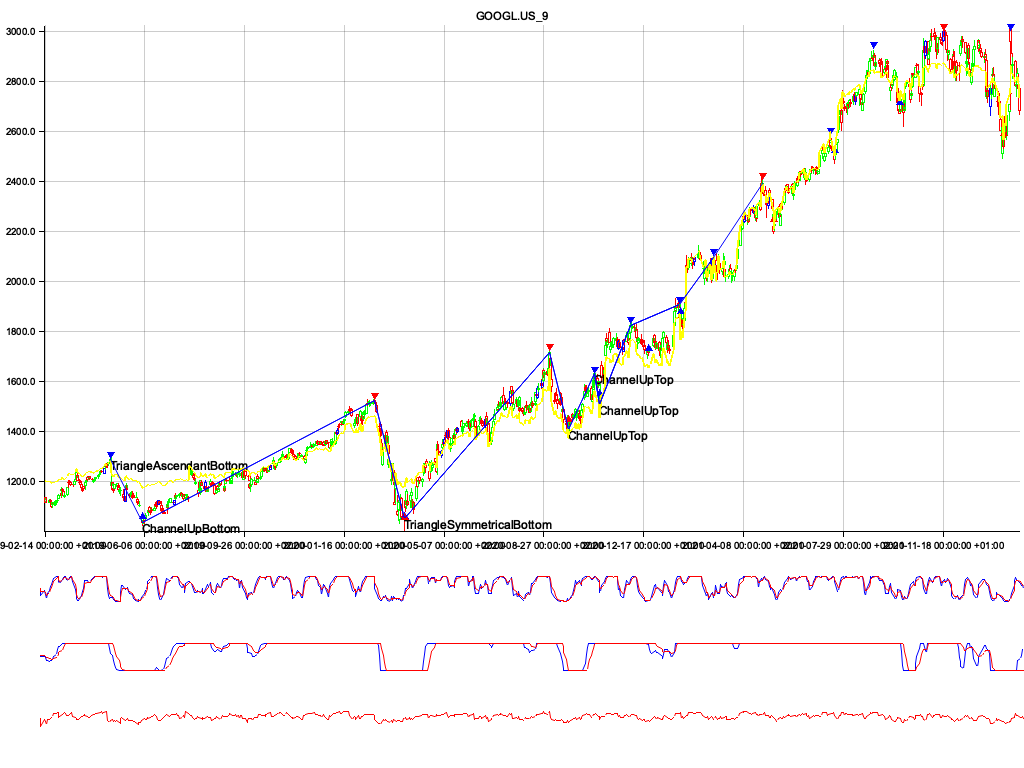
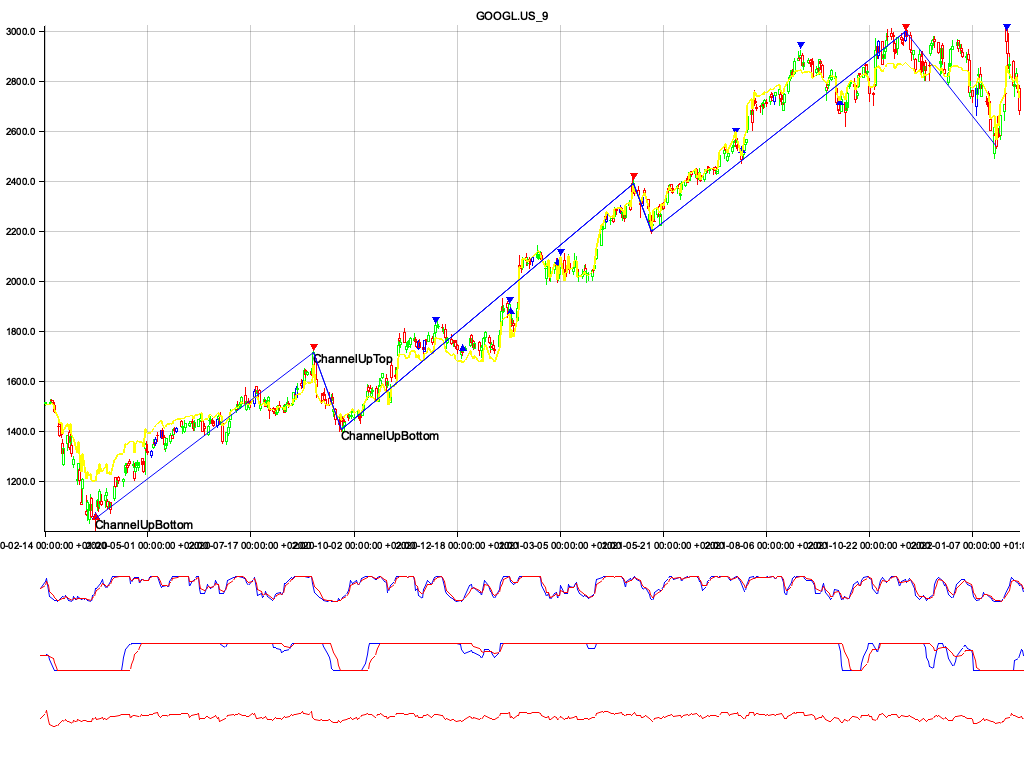
feat: calculate patterns for both extrema and local maxima / minima

diff --git a/src/patterns/pattern.rs b/src/patterns/pattern.rs
@@ -26,28 +26,40 @@ pub enum PatternType {
 }
 
 #[derive(Debug, Clone)]
+pub enum PatternSize {
+    Local,
+    Extrema,
+}
+
+#[derive(Debug, Clone)]
 pub struct Pattern {
     pub pattern_type: PatternType,
+    pub pattern_size: PatternSize,
     pub data_points: DataPoints,
 }
 
 #[derive(Debug, Clone)]
 pub struct Patterns {
-    pub patterns: Vec<Pattern>,
+    pub local_patterns: Vec<Pattern>,
+    pub extrema_patterns: Vec<Pattern>,
 }
 
 impl Patterns {
     pub fn new() -> Self {
-        Patterns { patterns: vec![] }
+        Patterns {
+            local_patterns: vec![],
+            extrema_patterns: vec![],
+        }
     }
 
     pub fn detect_pattern(
         &mut self,
+        pattern_size: PatternSize,
         maxima: &Vec<(usize, f64)>,
         minima: &Vec<(usize, f64)>,
         current_price: &f64,
     ) {
-        let max_points = env::var("PATTERNS_MAX_POINTS")
+        let local_max_points = env::var("PATTERNS_MAX_POINTS")
             .unwrap()
             .parse::<usize>()
             .unwrap();
@@ -56,40 +68,36 @@ impl Patterns {
             .unwrap()
             .parse::<usize>()
             .unwrap();
+
         let window_size = env::var("PATTERNS_WINDOW_SIZE")
             .unwrap()
             .parse::<usize>()
             .unwrap();
 
-        let mut start = 0;
-        let mut max = 0;
-        let mut min = 0;
+        let mut max_start = 0;
+        let mut max_end = 0;
+        let mut min_start = 0;
+        let mut min_end = 0;
         let maxima_length = maxima.len();
         let minima_length = minima.len();
-
         if maxima_length >= min_points && minima_length >= min_points {
-            if maxima_length > max_points {
-                max = max_points
+            if maxima_length > local_max_points {
+                max_start = maxima_length - local_max_points;
+                max_end = maxima_length;
             } else {
-                max = maxima_length
+                max_start = 0;
+                max_end = maxima_length;
             }
 
-            if minima_length > min_points {
-                min = min_points
+            if minima_length > local_max_points {
+                min_start = minima_length - local_max_points;
+                min_end = minima_length;
             } else {
-                min = minima_length
+                min_start = 0;
+                min_end = minima_length;
             }
 
-            // if maxima_length < max_points {
-            //     start = maxima_length
-            // } else {
-            //     start = maxima_length - max_points;
-            // }
-            // CONTINUE HERE SHOULD START max points from the end
-            //println!("444444 {:?}", [&maxima[start..max]].concat());
-            //let mut locals = [maxima.clone(), minima.clone()].concat();
-            // let mut locals = [maxima.clone(), minima.clone()].concat();
-            let mut locals = [&maxima[0..max], &minima[0..min]].concat();
+            let mut locals = [&maxima[max_start..max_end], &minima[min_start..min_end]].concat();
 
             locals.sort_by(|(id_a, _price_a), (id_b, _price_b)| id_a.cmp(id_b));
             locals.reverse();
@@ -100,71 +108,144 @@ impl Patterns {
                     Some(window) => {
                         let data_points = window.to_vec();
                         if triangle::is_ascendant_top(&data_points, current_price) {
-                            self.set_pattern(&data_points, PatternType::TriangleAscendantTop);
+                            self.set_pattern(
+                                &data_points,
+                                &pattern_size,
+                                PatternType::TriangleAscendantTop,
+                            );
                             //no_pattern = false;
                         } else if triangle::is_ascendant_bottom(&data_points, current_price) {
-                            self.set_pattern(&data_points, PatternType::TriangleAscendantBottom);
+                            self.set_pattern(
+                                &data_points,
+                                &pattern_size,
+                                PatternType::TriangleAscendantBottom,
+                            );
                             //no_pattern = false;
                         } else if triangle::is_descendant_top(&data_points, current_price) {
-                            self.set_pattern(&data_points, PatternType::TriangleDescendantTop);
+                            self.set_pattern(
+                                &data_points,
+                                &pattern_size,
+                                PatternType::TriangleDescendantTop,
+                            );
                             // no_pattern = false;
                         } else if triangle::is_descendant_bottom(&data_points, current_price) {
-                            self.set_pattern(&data_points, PatternType::TriangleDescendantBottom);
+                            self.set_pattern(
+                                &data_points,
+                                &pattern_size,
+                                PatternType::TriangleDescendantBottom,
+                            );
                             // no_pattern = false;
                         } else if triangle::is_symmetrical_top(&data_points, current_price) {
-                            self.set_pattern(&data_points, PatternType::TriangleSymmetricalTop);
+                            self.set_pattern(
+                                &data_points,
+                                &pattern_size,
+                                PatternType::TriangleSymmetricalTop,
+                            );
                             // no_pattern = false;
                         } else if triangle::is_symmetrical_bottom(&data_points, current_price) {
-                            self.set_pattern(&data_points, PatternType::TriangleSymmetricalBottom);
+                            self.set_pattern(
+                                &data_points,
+                                &pattern_size,
+                                PatternType::TriangleSymmetricalBottom,
+                            );
                             // no_pattern = false;
                         } else if rectangle::is_renctangle_top(&data_points, current_price) {
-                            self.set_pattern(&data_points, PatternType::RectangleTop);
+                            self.set_pattern(
+                                &data_points,
+                                &pattern_size,
+                                PatternType::RectangleTop,
+                            );
                             // no_pattern = false;
                         } else if rectangle::is_renctangle_bottom(&data_points, current_price) {
-                            self.set_pattern(&data_points, PatternType::RectangleBottom);
+                            self.set_pattern(
+                                &data_points,
+                                &pattern_size,
+                                PatternType::RectangleBottom,
+                            );
                             //  no_pattern = false;
                         } else if channel::is_ascendant_top(&data_points, current_price) {
-                            self.set_pattern(&data_points, PatternType::ChannelUpTop);
+                            self.set_pattern(
+                                &data_points,
+                                &pattern_size,
+                                PatternType::ChannelUpTop,
+                            );
                             //no_pattern = false;
                         } else if channel::is_ascendant_bottom(&data_points, current_price) {
-                            self.set_pattern(&data_points, PatternType::ChannelUpBottom);
+                            self.set_pattern(
+                                &data_points,
+                                &pattern_size,
+                                PatternType::ChannelUpBottom,
+                            );
                             // no_pattern = false;
                         } else if channel::is_descendant_top(&data_points, current_price) {
-                            self.set_pattern(&data_points, PatternType::ChannelDownTop);
+                            self.set_pattern(
+                                &data_points,
+                                &pattern_size,
+                                PatternType::ChannelDownTop,
+                            );
                             //  no_pattern = false;
                         } else if channel::is_descendant_bottom(&data_points, current_price) {
-                            self.set_pattern(&data_points, PatternType::ChannelDownBottom);
+                            self.set_pattern(
+                                &data_points,
+                                &pattern_size,
+                                PatternType::ChannelDownBottom,
+                            );
                             // no_pattern = false;
                         } else if broadening::is_top(&data_points, current_price) {
-                            self.set_pattern(&data_points, PatternType::BroadeningTop);
+                            self.set_pattern(
+                                &data_points,
+                                &pattern_size,
+                                PatternType::BroadeningTop,
+                            );
                             // no_pattern = false;
                         } else if broadening::is_bottom(&data_points, current_price) {
-                            self.set_pattern(&data_points, PatternType::BroadeningBottom);
+                            self.set_pattern(
+                                &data_points,
+                                &pattern_size,
+                                PatternType::BroadeningBottom,
+                            );
                             // no_pattern = false;
                         } else if double::is_top(&data_points, current_price) {
-                            self.set_pattern(&data_points, PatternType::DoubleTop);
+                            self.set_pattern(&data_points, &pattern_size, PatternType::DoubleTop);
                             // no_pattern = false;
                         } else if double::is_bottom(&data_points, current_price) {
-                            self.set_pattern(&data_points, PatternType::DoubleBottom);
+                            self.set_pattern(
+                                &data_points,
+                                &pattern_size,
+                                PatternType::DoubleBottom,
+                            );
                             // no_pattern = false;
                         }
                     }
                     None => {
-                        self.set_pattern(&vec![(0, 0.)], PatternType::None);
+                        self.set_pattern(&vec![(0, 0.)], &pattern_size, PatternType::None);
                         no_pattern = false;
                     }
                 }
             }
         } else {
-            self.set_pattern(&vec![(0, 0.)], PatternType::None);
+            self.set_pattern(&vec![(0, 0.)], &pattern_size, PatternType::None);
         }
     }
 
-    fn set_pattern(&mut self, data_points: &DataPoints, pattern_type: PatternType) {
-        self.patterns.push(Pattern {
-            pattern_type,
-            data_points: data_points.to_owned(),
-        });
+    fn set_pattern(
+        &mut self,
+        data_points: &DataPoints,
+        pattern_size: &PatternSize,
+        pattern_type: PatternType,
+    ) {
+        match &pattern_size {
+            PatternSize::Local => self.local_patterns.push(Pattern {
+                pattern_type,
+                pattern_size: pattern_size.clone(),
+                data_points: data_points.to_owned(),
+            }),
+            PatternSize::Extrema => self.extrema_patterns.push(Pattern {
+                pattern_type,
+                pattern_size: pattern_size.clone(),
+                data_points: data_points.to_owned(),
+            }),
+        };
     }
 
     // pub fn is_head_and_shoulders(

diff --git a/src/main.rs b/src/main.rs
@@ -42,7 +42,7 @@ async fn main() -> Result<()> {
     let sleep_time = &env::var("SLEEP_TIME").unwrap().parse::<u64>().unwrap();
 
     let sleep = time::Duration::from_millis(*sleep_time);
-    let from = (Local::now() - date::Duration::days(365 * 3)).timestamp();
+    let from = (Local::now() - date::Duration::days(365 * 2)).timestamp();
     let time_frame = TimeFrame::D;
 
     let mut screener = Screener::<Xtb>::new().await?;
@@ -84,15 +84,18 @@ async fn main() -> Result<()> {
                 from,
                 |inst: Instrument| async move {
                     println!(
-                        "[INSTRUMENT] {:?} {:?} {:?} {:?}",
+                        "[INSTRUMENT] {:?} [CANDLE] {:?} [PATTERNS] {:?} [INDICATORS] {:?}",
                         inst.symbol(),
                         inst.current_candle().candle_type(),
-                        inst.patterns().patterns[0].pattern_type,
-                        (
+                        [
+                            inst.patterns().extrema_patterns[0].pattern_type.clone(),
+                            inst.patterns().local_patterns[0].pattern_type.clone(),
+                        ],
+                        [
                             inst.indicators().macd().get_status(),
                             inst.indicators().rsi().get_status(),
                             inst.indicators().stoch().get_status()
-                        )
+                        ]
                     );
                     Ok(())
                 },

diff --git a/src/instrument.rs b/src/instrument.rs
@@ -4,7 +4,7 @@ use crate::helpers::date::{DateTime, Local};
 use crate::indicators::macd::Macd;
 use crate::indicators::{Indicator, Indicators};
 use crate::patterns::horizontal_levels::HorizontalLevels;
-use crate::patterns::pattern::Patterns;
+use crate::patterns::pattern::{PatternSize, Patterns};
 use crate::patterns::peaks::Peaks;
 
 use std::env;
@@ -125,11 +125,25 @@ impl Instrument {
         self.set_current_price(parsed[0].close());
         self.peaks.calculate_peaks(&self.max_price).unwrap();
 
-        let maxima = self.peaks.local_maxima();
-        let minima = self.peaks.local_minima();
+        let local_maxima = self.peaks.local_maxima();
+        let local_minima = self.peaks.local_minima();
 
-        self.patterns
-            .detect_pattern(maxima, minima, &self.current_price);
+        let extrema_maxima = self.peaks.extrema_maxima();
+        let extrema_minima = self.peaks.extrema_minima();
+
+        self.patterns.detect_pattern(
+            PatternSize::Local,
+            local_maxima,
+            local_minima,
+            &self.current_price,
+        );
+
+        self.patterns.detect_pattern(
+            PatternSize::Extrema,
+            extrema_maxima,
+            extrema_minima,
+            &self.current_price,
+        );
 
         self.horizontal_levels
             .calculate_horizontal_highs(&self.current_price, &self.peaks)

diff --git a/src/backend.rs b/src/backend.rs
@@ -36,7 +36,7 @@ impl Backend {
         let extrema_maxima = instrument.peaks().extrema_maxima();
         let extrema_minima = instrument.peaks().extrema_minima();
         let horizontal_levels = instrument.horizontal_levels().horizontal_levels();
-        let patterns = instrument.patterns();
+        let patterns = instrument.patterns().extrema_patterns.clone();
         //let upper_channel = instrument.patterns().upper_channel();
 
         let rsi = instrument.indicators().rsi();
@@ -98,7 +98,7 @@ impl Backend {
             }))
             .unwrap();
 
-        for (x, pattern) in patterns.patterns.iter().enumerate() {
+        for (x, pattern) in patterns.iter().enumerate() {
             chart
                 .draw_series(PointSeries::of_element(
                     (0..).zip(pattern.data_points.iter()).map(|(i, highs)| {
@@ -248,7 +248,7 @@ impl Backend {
                 .unwrap();
         }
 
-        for (x, pattern) in patterns.patterns.iter().enumerate() {
+        for (x, pattern) in patterns.iter().enumerate() {
             chart
                 .draw_series(LineSeries::new(
                     (0..).zip(pattern.data_points.iter()).map(|(_k, highs)| {

diff --git a/src/patterns/peaks.rs b/src/patterns/peaks.rs
@@ -5,8 +5,6 @@ use find_peaks::PeakFinder;
 use std::collections::HashMap;
 use std::env;
 
-pub type HashData = HashMap<usize, f64>;
-
 #[derive(Debug, Clone)]
 pub struct Peaks {
     pub highs: Vec<f64>,
